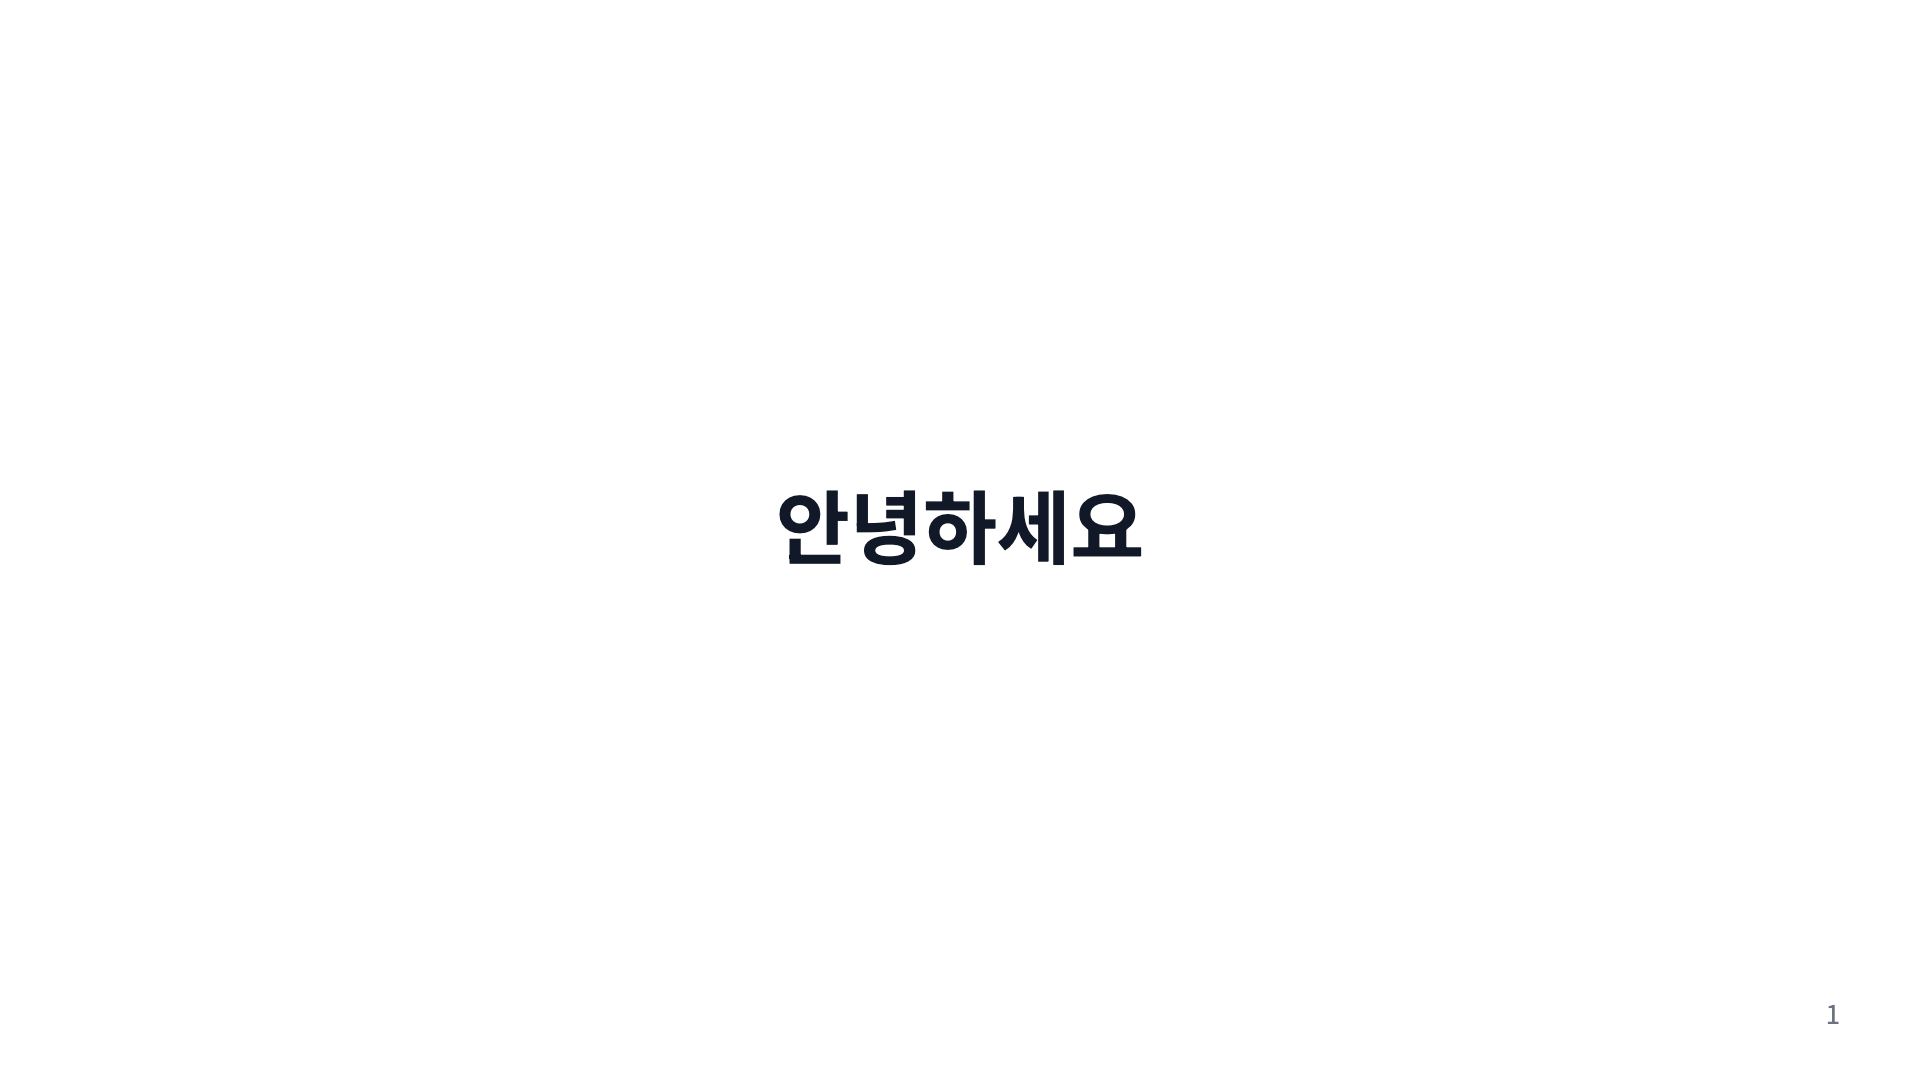
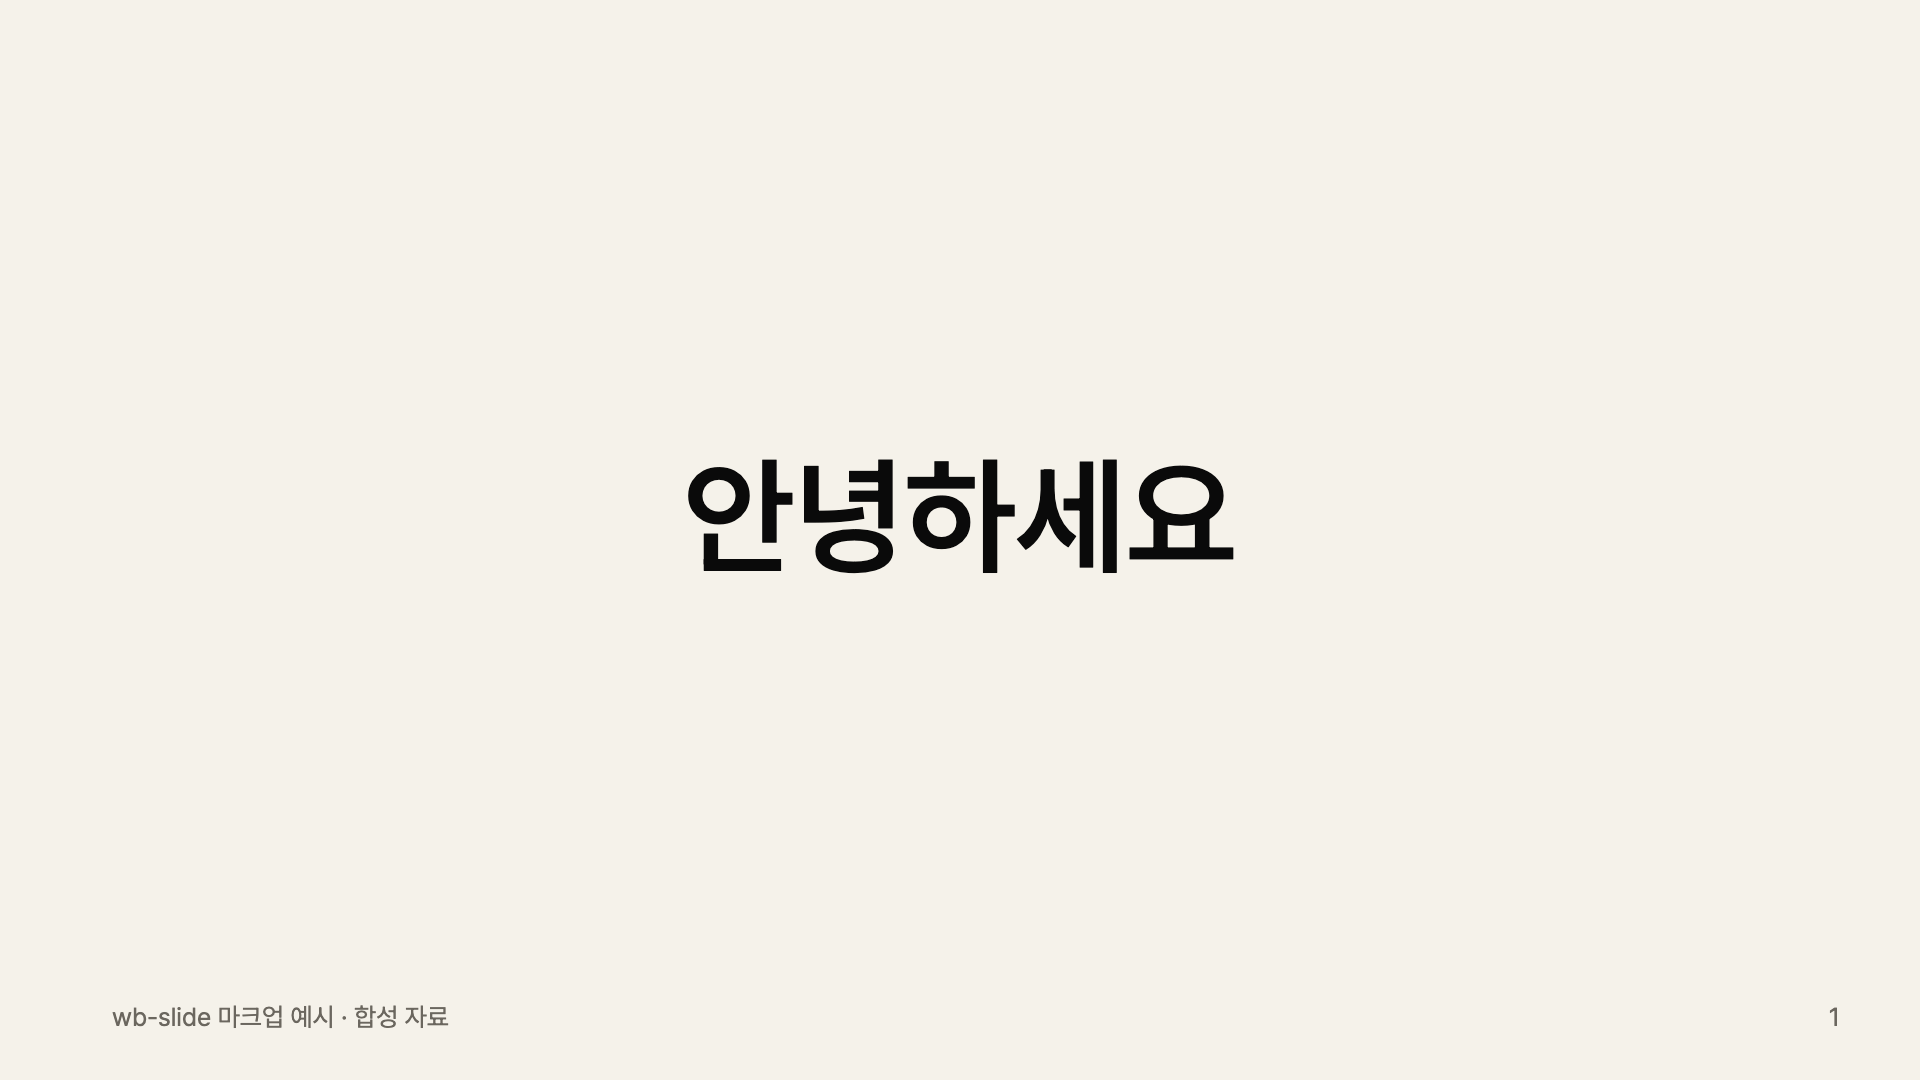
feat: paper default theme + classic/graphite/signal + design-study tokens (#23) (#40)
* feat: built-in paper/graphite/signal themes + design-study tokens (#23)

The design study's three themes become built-in presets: paper (warm light
editorial), graphite (dark) and signal (bold indigo). The new tokens are
title tracking and leading, a reading measure, stat size, label size and
inverse background/text. default and night keep their look. The preset now
wraps Korean between words. Built-in themes come from one table.

* feat: paper becomes the default markup theme; old look is classic

Per butler: default.css now holds the design study's paper tokens, and the
name paper stays as an alias. The earlier white default is --theme classic.
Sample PNGs are re-rendered with PretendardVariable.

Sonnet review fixes:
- overflow-wrap: anywhere, so long tokens cannot widen grid tracks.
- classic and night keep the 0.72rem label size.
- Docs say the stat size and inverse colours are reserved until the stat and
  section PRs; the token table covers all themes.

* fix: review — list built-in names on unknown theme; text-wrap pretty/balance (#23)

---------

Changed region(s): [[0.3438, 0.4278, 0.6562, 0.55], [0.0625, 0.9167, 0.25, 0.9472]]

diff --git a/framework/presets/slide.css b/framework/presets/slide.css
@@ -7,12 +7,17 @@
   --color-background: var(--wb-bg);
   --color-border: var(--wb-border);
 }
+/* Korean wraps between words, never inside one; very long tokens may still break. */
+.ms-slide-container { word-break: keep-all; overflow-wrap: anywhere; text-wrap: pretty; }
+/* Short titles: even line lengths instead of a lone last word. */
+.ms-slide-container :is(h1, h2) { text-wrap: balance; }
 .ms-feature-layout { padding: var(--wb-safe-y) var(--wb-safe-x); gap: var(--wb-gap); }
 .ms-slide-title {
   font-size: var(--wb-title-size);
   font-weight: var(--wb-title-weight);
   color: var(--wb-title-color);
-  line-height: 1.25;
+  line-height: var(--wb-title-leading);
+  letter-spacing: var(--wb-title-tracking);
 }
 .ms-slide-subtitle { font-size: var(--wb-subtitle-size); color: var(--wb-muted); margin: 0; }
 /* --wb-vertical: start | safe center | space-evenly places the body under the title. */
@@ -31,7 +36,9 @@
 .wb-list li::marker { color: var(--wb-accent); }
 .panel { background: var(--wb-card-bg); border-color: var(--wb-border); border-radius: var(--wb-radius); padding: var(--wb-gap) calc(var(--wb-gap) * 1.25); margin: 0 0 var(--wb-gap); }
 .panel > p:last-child { margin-bottom: 0; }
-.panel-label { color: var(--wb-accent); }
+.panel-label { color: var(--wb-accent); font-size: var(--wb-label-size); }
+/* Body copy directly under the title stops at the theme's reading measure. */
+.ms-slot-area > p, .ms-slot-area > .wb-list { max-width: var(--wb-measure); }
 /* Columns fill the content width with equal shares (see #22). */
 .cols { width: 100%; gap: calc(var(--wb-gap) * 1.5); margin: 0 0 var(--wb-gap); }
 .wb-image { display: block; justify-self: start; object-position: left top; max-width: 100%; max-height: var(--wb-image-height); object-fit: contain; margin: 0 0 var(--wb-gap); }

diff --git a/framework/presets/themes/default.css b/framework/presets/themes/default.css
@@ -1,19 +1,26 @@
 --wb-font: Pretendard, -apple-system, 'Segoe UI', Roboto, sans-serif;
---wb-title-size: 32px;
---wb-title-weight: 700;
---wb-title-color: #111827;
---wb-subtitle-size: 22px;
+--wb-title-size: 40px;
+--wb-title-weight: 600;
+--wb-title-color: #0A0A0A;
+--wb-subtitle-size: 24px;
 --wb-body-size: 20px;
---wb-center-size: 40px;
---wb-text: #1F2937;
---wb-muted: #6B7280;
---wb-accent: #2563EB;
---wb-bg: #FFFFFF;
---wb-card-bg: #F9FAFB;
---wb-border: #E5E7EB;
---wb-radius: 10px;
---wb-safe-x: 64px;
+--wb-center-size: 64px;
+--wb-text: #1C1B19;
+--wb-muted: #6B675F;
+--wb-accent: #C2410C;
+--wb-bg: #F5F2EA;
+--wb-card-bg: #FFFFFF;
+--wb-border: #E2DDD2;
+--wb-radius: 8px;
+--wb-safe-x: 56px;
 --wb-safe-y: 48px;
---wb-gap: 16px;
---wb-image-height: 280px;
---wb-vertical: safe center;
+--wb-gap: 24px;
+--wb-image-height: 300px;
+--wb-vertical: start;
+--wb-title-tracking: -0.02em;
+--wb-title-leading: 1.1;
+--wb-measure: 60%;
+--wb-stat-size: 120px;
+--wb-label-size: 12px;
+--wb-inverse-bg: #1C1B19;
+--wb-inverse-text: #F5F2EA;

diff --git a/framework/presets/themes/classic.css b/framework/presets/themes/classic.css
@@ -1,0 +1,26 @@
+--wb-font: Pretendard, -apple-system, 'Segoe UI', Roboto, sans-serif;
+--wb-title-size: 32px;
+--wb-title-weight: 700;
+--wb-title-color: #111827;
+--wb-subtitle-size: 22px;
+--wb-body-size: 20px;
+--wb-center-size: 40px;
+--wb-text: #1F2937;
+--wb-muted: #6B7280;
+--wb-accent: #2563EB;
+--wb-bg: #FFFFFF;
+--wb-card-bg: #F9FAFB;
+--wb-border: #E5E7EB;
+--wb-radius: 10px;
+--wb-safe-x: 64px;
+--wb-safe-y: 48px;
+--wb-gap: 16px;
+--wb-image-height: 280px;
+--wb-vertical: safe center;
+--wb-title-tracking: normal;
+--wb-title-leading: 1.25;
+--wb-measure: 100%;
+--wb-stat-size: 96px;
+--wb-label-size: 0.72rem;
+--wb-inverse-bg: #111827;
+--wb-inverse-text: #F9FAFB;

diff --git a/framework/presets/themes/signal.css b/framework/presets/themes/signal.css
@@ -1,0 +1,26 @@
+--wb-font: Pretendard, -apple-system, 'Segoe UI', Roboto, sans-serif;
+--wb-title-size: 44px;
+--wb-title-weight: 700;
+--wb-title-color: #FFFFFF;
+--wb-subtitle-size: 24px;
+--wb-body-size: 22px;
+--wb-center-size: 72px;
+--wb-text: #F1EEFF;
+--wb-muted: #D6D1FF;
+--wb-accent: #D7FF3A;
+--wb-bg: #3B2BDB;
+--wb-card-bg: #4A3BE6;
+--wb-border: #6457EC;
+--wb-radius: 12px;
+--wb-safe-x: 64px;
+--wb-safe-y: 52px;
+--wb-gap: 24px;
+--wb-image-height: 300px;
+--wb-vertical: start;
+--wb-title-tracking: -0.02em;
+--wb-title-leading: 1.05;
+--wb-measure: 60%;
+--wb-stat-size: 144px;
+--wb-label-size: 12px;
+--wb-inverse-bg: #D7FF3A;
+--wb-inverse-text: #1A1066;

diff --git a/framework/presets/themes/graphite.css b/framework/presets/themes/graphite.css
@@ -1,0 +1,26 @@
+--wb-font: Pretendard, -apple-system, 'Segoe UI', Roboto, sans-serif;
+--wb-title-size: 40px;
+--wb-title-weight: 600;
+--wb-title-color: #F7F8F8;
+--wb-subtitle-size: 24px;
+--wb-body-size: 20px;
+--wb-center-size: 64px;
+--wb-text: #D9DBDF;
+--wb-muted: #8A8F98;
+--wb-accent: #7C83F0;
+--wb-bg: #0B0C0E;
+--wb-card-bg: #16171A;
+--wb-border: #26282D;
+--wb-radius: 10px;
+--wb-safe-x: 56px;
+--wb-safe-y: 48px;
+--wb-gap: 24px;
+--wb-image-height: 300px;
+--wb-vertical: start;
+--wb-title-tracking: -0.02em;
+--wb-title-leading: 1.1;
+--wb-measure: 60%;
+--wb-stat-size: 120px;
+--wb-label-size: 12px;
+--wb-inverse-bg: #F7F8F8;
+--wb-inverse-text: #0B0C0E;

diff --git a/framework/presets/themes/night.css b/framework/presets/themes/night.css
@@ -17,3 +17,10 @@
 --wb-gap: 20px;
 --wb-image-height: 280px;
 --wb-vertical: safe center;
+--wb-title-tracking: normal;
+--wb-title-leading: 1.25;
+--wb-measure: 100%;
+--wb-stat-size: 96px;
+--wb-label-size: 0.72rem;
+--wb-inverse-bg: #F9FAFB;
+--wb-inverse-text: #111827;

diff --git a/src/markup.rs b/src/markup.rs
@@ -7,7 +7,13 @@ type Result<T> = std::result::Result<T, String>;
 
 const ROLE_CSS: &str = include_str!("../framework/presets/slide.css");
 const DEFAULT_THEME: &str = include_str!("../framework/presets/themes/default.css");
-const NIGHT_THEME: &str = include_str!("../framework/presets/themes/night.css");
+/// Built-in themes beside default; each sets every token.
+const THEMES: &[(&str, &str)] = &[
+    ("night", include_str!("../framework/presets/themes/night.css")),
+    ("classic", include_str!("../framework/presets/themes/classic.css")),
+    ("graphite", include_str!("../framework/presets/themes/graphite.css")),
+    ("signal", include_str!("../framework/presets/themes/signal.css")),
+];
 const MAX_THEME_BYTES: usize = 8 * 1024;
 const MAX_MARKUP_BYTES: usize = 64 * 1024;
 const MAX_DEPTH: usize = 8;
@@ -318,10 +324,21 @@ fn tokens(source: &str, origin: &str) -> Result<String> {
 /// Preset CSS: default tokens, then the chosen theme (built-in name or token file), then role styles.
 pub fn preset_css(theme: Option<&str>) -> Result<String> {
     let overrides = match theme {
-        None | Some("default") => String::new(),
-        Some("night") => tokens(NIGHT_THEME, "night")?,
+        // paper is the default look; the name stays as an alias.
+        None | Some("default") | Some("paper") => String::new(),
+        Some(name) if THEMES.iter().any(|(n, _)| *n == name) => {
+            tokens(THEMES.iter().find(|(n, _)| *n == name).unwrap().1, name)?
+        }
         Some(path) => {
-            let source = std::fs::read(path).map_err(|e| format!("cannot read theme {path}: {e}"))?;
+            let source = std::fs::read(path).map_err(|e| {
+                // A bare word is almost always a mistyped built-in name, not a file.
+                if !path.contains('/') && !path.ends_with(".css") {
+                    let names: Vec<_> = THEMES.iter().map(|(n, _)| *n).collect();
+                    format!("unknown theme {path}: use paper, {} or a token file path", names.join(", "))
+                } else {
+                    format!("cannot read theme {path}: {e}")
+                }
+            })?;
             if source.len() > MAX_THEME_BYTES {
                 return Err(format!("theme {path} exceeds 8 KiB"));
             }
@@ -334,6 +351,13 @@ pub fn preset_css(theme: Option<&str>) -> Result<String> {
 #[cfg(test)]
 mod tests {
     use super::*;
+
+    #[test]
+    fn unknown_theme_name_lists_built_ins() {
+        let err = preset_css(Some("papr")).unwrap_err();
+        assert!(err.contains("unknown theme papr") && err.contains("graphite"), "{err}");
+        assert!(preset_css(Some("./nope.css")).unwrap_err().contains("cannot read theme"));
+    }
 
     fn spec(m: &str) -> serde_json::Value {
         serde_json::from_str(&compile(m).unwrap()).unwrap()
@@ -509,12 +533,16 @@ mod tests {
     #[test]
     fn preset_defaults_and_theme_override() {
         let css = preset_css(None).unwrap();
-        assert!(css.contains("--wb-title-size: 32px;") && css.contains("--wb-font: Pretendard"));
+        assert!(css.contains("--wb-title-size: 40px;") && css.contains("--wb-font: Pretendard"));
         assert!(css.contains(".ms-slide-title") && css.contains("var(--wb-title-size)"));
         let night = preset_css(Some("night")).unwrap();
         // Overrides come after defaults inside :root, so the later value wins.
-        assert!(night.rfind("--wb-title-size: 36px;").unwrap() > night.find("--wb-title-size: 32px;").unwrap());
-        assert!(tokens(NIGHT_THEME, "night").unwrap().lines().count() == token_names().len());
+        assert!(night.rfind("--wb-title-size: 36px;").unwrap() > night.find("--wb-title-size: 40px;").unwrap());
+        for (name, source) in THEMES {
+            assert_eq!(tokens(source, name).unwrap().lines().count(), token_names().len(), "{name}");
+        }
+        assert_eq!(preset_css(Some("paper")).unwrap(), css);
+        assert!(preset_css(Some("classic")).unwrap().contains("--wb-title-size: 32px;"));
         assert!(tokens("--wb-vertical: start;", "t").is_ok());
         for (bad, msg) in [
             ("--wb-bg: url(http://x);", "must be plain"),

diff --git a/tools/test_render.py b/tools/test_render.py
@@ -146,7 +146,7 @@ class RenderTest(unittest.TestCase):
 
     def test_markup_preset_themes_apply(self):
         corners = {}
-        for theme in ["default", "night"]:
+        for theme in ["classic", "default", "night", "graphite", "signal"]:
             output = self.root / f"{theme}.html"
             subprocess.run([self.binary, "export", "--markup", ROOT / "samples/markup/deck.html",
                             "--theme", theme, "-o", output], check=True)
@@ -178,10 +178,17 @@ class RenderTest(unittest.TestCase):
             # --wb-vertical: center puts the body mid-way under the title, not top-heavy.
             body = ImageChops.difference(png, Image.new("RGB", png.size, png.getpixel((4, 4)))).crop((0, 360, 1920, 1000)).getbbox()
             self.assertIsNotNone(body)
-            self.assertGreater(body[1], 120)
+            # The study themes hang the body from the top axis (--wb-vertical: start).
+            if theme in ("classic", "night"):
+                self.assertGreater(body[1], 120)
+            else:
+                self.assertLess(body[1], 60)
             corners[theme] = png.getpixel((4, 4))
-        self.assertEqual(corners["default"], (255, 255, 255))
+        self.assertEqual(corners["classic"], (255, 255, 255))
+        self.assertEqual(corners["default"], (0xF5, 0xF2, 0xEA))
         self.assertEqual(corners["night"], (0x11, 0x18, 0x27))
+        self.assertEqual(corners["graphite"], (0x0B, 0x0C, 0x0E))
+        self.assertEqual(corners["signal"], (0x3B, 0x2B, 0xDB))
 
     def check(self, source):
         result = subprocess.run([sys.executable, ROOT / "tools/render.py", source, "--output", self.root / "checked",

diff --git a/src/main.rs b/src/main.rs
@@ -54,7 +54,7 @@ enum Commands {
         /// Export semantic slide markup (<wb-slide>, <wb-title>) with the slide preset
         #[arg(long, conflicts_with_all = ["dir", "spec", "refresh_themes", "embed"])]
         markup: Option<PathBuf>,
-        /// Preset theme for --markup: a built-in name (default, night) or a token file
+        /// Preset theme for --markup: a built-in name (default, night, paper, graphite, signal) or a token file
         #[arg(long, requires = "markup")]
         theme: Option<String>,
         #[arg(short, long, default_value = "export.html")]

diff --git a/docs/markup-dsl.md b/docs/markup-dsl.md
@@ -58,10 +58,11 @@ The preset has two layers:
   theme too.
 - **A theme**: a swappable set of token values covering fonts, type scale,
   palette, spacing and per-role styles. Each theme is a file of
-  `--wb-name: value;` lines. The built-in themes are `themes/default.css` and
-  `themes/night.css`.
+  `--wb-name: value;` lines. The built-in themes are `themes/default.css` (the design
+  study's light "paper" look; `paper` is an alias), `classic.css` (the earlier
+  white default), `night.css`, `graphite.css` (dark) and `signal.css` (bold).
 
-`wb-slide export --markup deck.html [--theme default|night|tokens.css]` emits
+`wb-slide export --markup deck.html [--theme default|classic|night|graphite|signal|tokens.css]` emits
 the default tokens, then the chosen theme's tokens (the later value wins), then
 the role styles. A token file can override only some tokens.
 
@@ -70,17 +71,29 @@ theme. Values are plain, with no functions, `@`, braces, comments or double quot
 theme cannot load URLs or inject rules. The limit is 8 KiB. Built-in themes are
 checked by the same parser. The plain `--spec` output is unchanged.
 
-| Token | default | night |
-|---|---|---|
-| `--wb-font` | Pretendard, system sans | same |
-| `--wb-title-size` / `-weight` / `-color` | 32px / 700 / #111827 | 36px / 800 / #F9FAFB |
-| `--wb-body-size` / `--wb-center-size` | 20px / 40px | 22px / 44px |
-| `--wb-text` / `--wb-muted` / `--wb-accent` / `--wb-bg` | light palette | dark palette |
-| `--wb-safe-x` / `--wb-safe-y` / `--wb-gap` | 64 / 48 / 16px | 72 / 56 / 20px |
-| `--wb-vertical` (body under a title: `start`, `safe center` or `space-evenly`; other values are errors) | safe center | safe center |
+| Token | default (paper) | classic | night | graphite | signal |
+|---|---|---|---|---|---|
+| `--wb-bg` / `--wb-accent` | #F5F2EA / #C2410C | #FFFFFF / #2563EB | #111827 / #F59E0B | #0B0C0E / #7C83F0 | #3B2BDB / #D7FF3A |
+| `--wb-title-size` / `-weight` | 40px / 600 | 32px / 700 | 36px / 800 | 40px / 600 | 44px / 700 |
+| `--wb-body-size` / `--wb-center-size` | 20 / 64px | 20 / 40px | 22 / 44px | 20 / 64px | 22 / 72px |
+| `--wb-title-tracking` / `-leading` | -0.02em / 1.1 | normal / 1.25 | normal / 1.25 | -0.02em / 1.1 | -0.02em / 1.05 |
+| `--wb-measure` (body width under a title) | 60% | 100% | 100% | 60% | 60% |
+| `--wb-vertical` (`start`, `safe center` or `space-evenly`; others are errors) | start | safe center | safe center | start | start |
+
+Every theme sets all tokens; see the files for the rest (`--wb-font` is Pretendard in all).
 
 At render time `render.py` substitutes the operator's approved font file. Pass
-a Pretendard variable `.ttf` to get Pretendard in PNG/PDF.
+a Pretendard variable `.ttf` (e.g. `PretendardVariable.ttf`) to get Pretendard in PNG/PDF.
+The preset sets `word-break: keep-all`, so Korean wraps between words.
+
+The study themes (`default`/`paper`, `graphite`, `signal`) follow the design study's principles:
+- a warm off-white or dark ground;
+- one accent;
+- tight titles (`--wb-title-tracking`, `--wb-title-leading`);
+- body text capped at a 60% measure (`--wb-measure`);
+- the body hung from the top axis (`--wb-vertical: start`).
+`--wb-label-size` sizes card labels. `--wb-stat-size` and `--wb-inverse-bg`/`--wb-inverse-text` are reserved
+for the stat and section patterns (next PRs); no rule reads them yet. `classic` and `night` keep the earlier look.
 
 **Alternate theme example.** The `night` theme is built in (`--theme night`).
 A custom theme is a token file. This one overrides only some tokens and
@@ -98,7 +111,7 @@ Saved as `brand.css`:
 wb-slide export --markup deck.html --theme brand.css -o deck.html
 ```
 
-Rendered samples: `samples/markup/default.png`, `night.png`, and
+Rendered samples: `samples/markup/default.png`, `classic.png`, `night.png`, `graphite.png`, `signal.png`, and
 `centered.png` (a bare slide).
 
 ## Semantics

diff --git a/docs/markup-dsl-guide.md b/docs/markup-dsl-guide.md
@@ -6,7 +6,7 @@ in [markup-dsl.md](markup-dsl.md).
 ## 1. Command
 
 ```sh
-wb-slide export --markup deck.html [--theme default|night|tokens.css] -o /absolute/out.html
+wb-slide export --markup deck.html [--theme default|classic|night|graphite|signal|tokens.css] -o /absolute/out.html
 python tools/render.py /absolute/out.html --output /absolute/new-dir \
   --font-file /path/to/licensed-variable.ttf [--pdf] [--scale 1|2] [--browser /path/to/chrome]
 ```
@@ -96,7 +96,9 @@ Slide I is the I-th `<wb-slide>` counting from 0. The render manifest counts fro
 
 ## 6. Themes
 
-`--theme default` (or omitted), `--theme night`, or `--theme path/to/tokens.css`.
+`--theme default` (or omitted; warm off-white editorial, alias `paper`), a built-in `classic` (earlier white look),
+`night`, `graphite` (dark) or `signal` (bold indigo), or `--theme path/to/tokens.css` (a file named like a built-in
+needs a `./` prefix). default, graphite and signal hang the body from the top (`--wb-vertical: start`).
 A token file is one `--wb-name: value;` per line, each ending in `;`; blank lines allowed; no comments; unset tokens keep the default.
 Values must be plain: none of `( ) { } ; < > @ \ " / *`.
 Errors: `FILE:LINE: expected \`--wb-name: value;\``, `FILE:LINE: unknown token NAME`, `FILE:LINE: value must be plain …`,
@@ -106,7 +108,9 @@ Errors: `FILE:LINE: expected \`--wb-name: value;\``, `FILE:LINE: unknown token N
 Tokens: `--wb-font`, `--wb-title-size`, `--wb-title-weight`, `--wb-title-color`,
 `--wb-subtitle-size`, `--wb-body-size`, `--wb-center-size`, `--wb-text`, `--wb-muted`,
 `--wb-accent`, `--wb-bg`, `--wb-card-bg`, `--wb-border`, `--wb-radius`, `--wb-safe-x`,
-`--wb-safe-y`, `--wb-gap`, `--wb-image-height`, `--wb-vertical`.
+`--wb-safe-y`, `--wb-gap`, `--wb-image-height`, `--wb-vertical`, `--wb-title-tracking`,
+`--wb-title-leading`, `--wb-measure` (max width of body text under a title), `--wb-stat-size`,
+`--wb-label-size`, `--wb-inverse-bg`, `--wb-inverse-text` (the stat size and inverse colours are reserved; nothing reads them yet).
 
 `--wb-vertical` accepts only `start`, `safe center` or `space-evenly`.
 

diff --git a/CHANGELOG.md b/CHANGELOG.md
@@ -6,7 +6,11 @@ All notable changes to wb-slide.
 
 ### Added
 
-- **Slide markup front-end** (issue #23). `wb-slide export --markup deck.html [--theme default|night|tokens.css]`
+- **The default markup theme is now the design study's warm "paper" look** (alias `paper`); the earlier
+  white default is `--theme classic`. New built-in themes `graphite` and `signal`, new tokens
+  `--wb-title-tracking`, `--wb-title-leading`, `--wb-measure`, `--wb-stat-size`, `--wb-label-size`,
+  `--wb-inverse-bg` and `--wb-inverse-text`, and Korean `word-break: keep-all` in the preset.
+- **Slide markup front-end** (issue #23). `wb-slide export --markup deck.html [--theme NAME|tokens.css]`
   compiles `<wb-slide>`/`<wb-title>`/body text deterministically to the typed spec
   and applies a themeable slide preset (Pretendard, 32px title, safe areas). See
   `docs/markup-dsl.md`.
